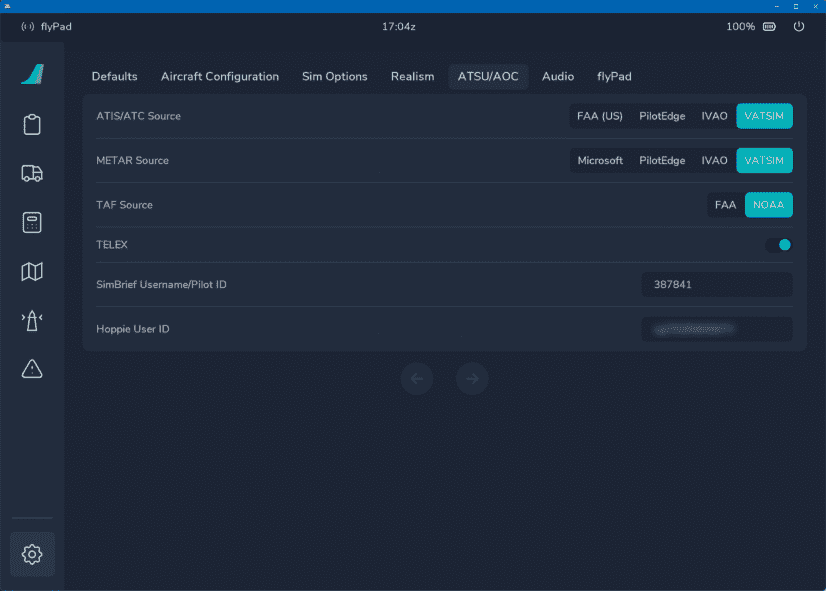
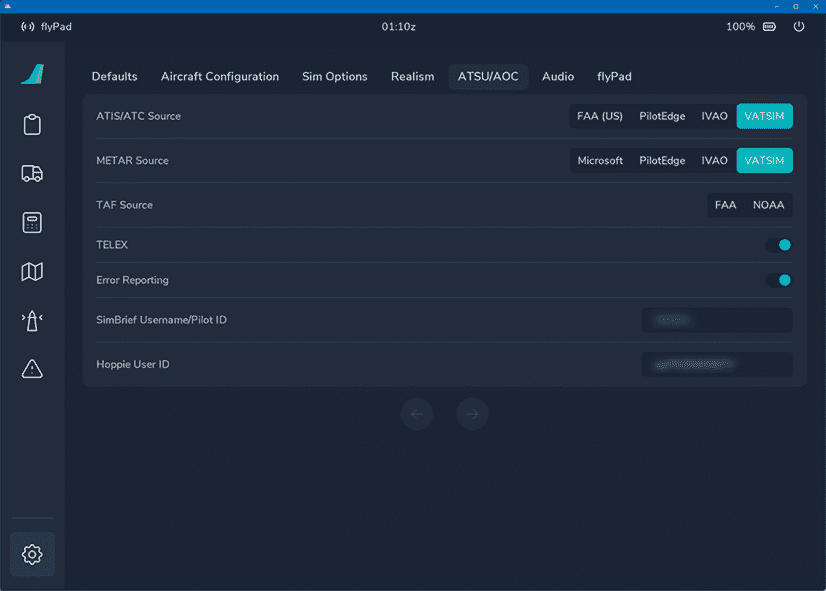
docs: Error Reporting guide to settings.md and EFB Settings (#436)

diff --git a/docs/fbw-a32nx/settings.md b/docs/fbw-a32nx/settings.md
@@ -105,3 +105,24 @@ Our Custom Autopilot implementation requires that the throttle is calibrated to 
 
 See [Throttle Calibration Guide](feature-guides/flyPad/throttle-calibration.md)
 
+### Error Reporting
+
+While using our aircraft you can help us to identify errors by turning on Error Reporting. This is completely optional and anonymous.
+
+With Error Reporting enabled, any severe error in any display of the aircraft (e.g. flyPad, MCDU, PFD, ND, etc.) will create a log entry with our issue tracking system. This will help our development team to see these issues and get some important details to hopefully identify what caused the error.
+
+This will speed up finding and fixing both issues and bugs significantly.
+
+{==
+
+You can decide to activate or deactivate this at any time in the flyPad EFB.
+
+==}
+
+The first time you start the aircraft after this feature has been included and also everytime you enable Error Reporting you will see a confirmation dialog where you need to click on `Yes`.
+
+![Consent Dialog for Error Reporting](assets/settings/error-reporting-consent.png "Consent Dialog for Error Reporting")
+
+flyPad EFB Settings for Error Reporting:
+
+![flyPad EFB Setting Error Reporting](assets/settings/efb-settings-atsuaoc-error-reporting.png "flyPad EFB Setting Error Reporting")

diff --git a/docs/fbw-a32nx/feature-guides/flyPad/settings.md b/docs/fbw-a32nx/feature-guides/flyPad/settings.md
@@ -189,6 +189,8 @@ Settings for integrations with various data and information sources.
 
         ![flypad-settings-atsu-aoc-telex-warning](../../assets/flypad/flypad-settings-atsu-aoc-telex-warning.png)
 
+- Error Reporting
+    - Enables error reports to be sent to Sentry.io to allow the FlyByWire team to easier find and fix issues with the aircraft.
 - Simbrief Username/Pilot ID
     - See [next chapter](#simbrief-integration.)
 - Hoppie User ID:
